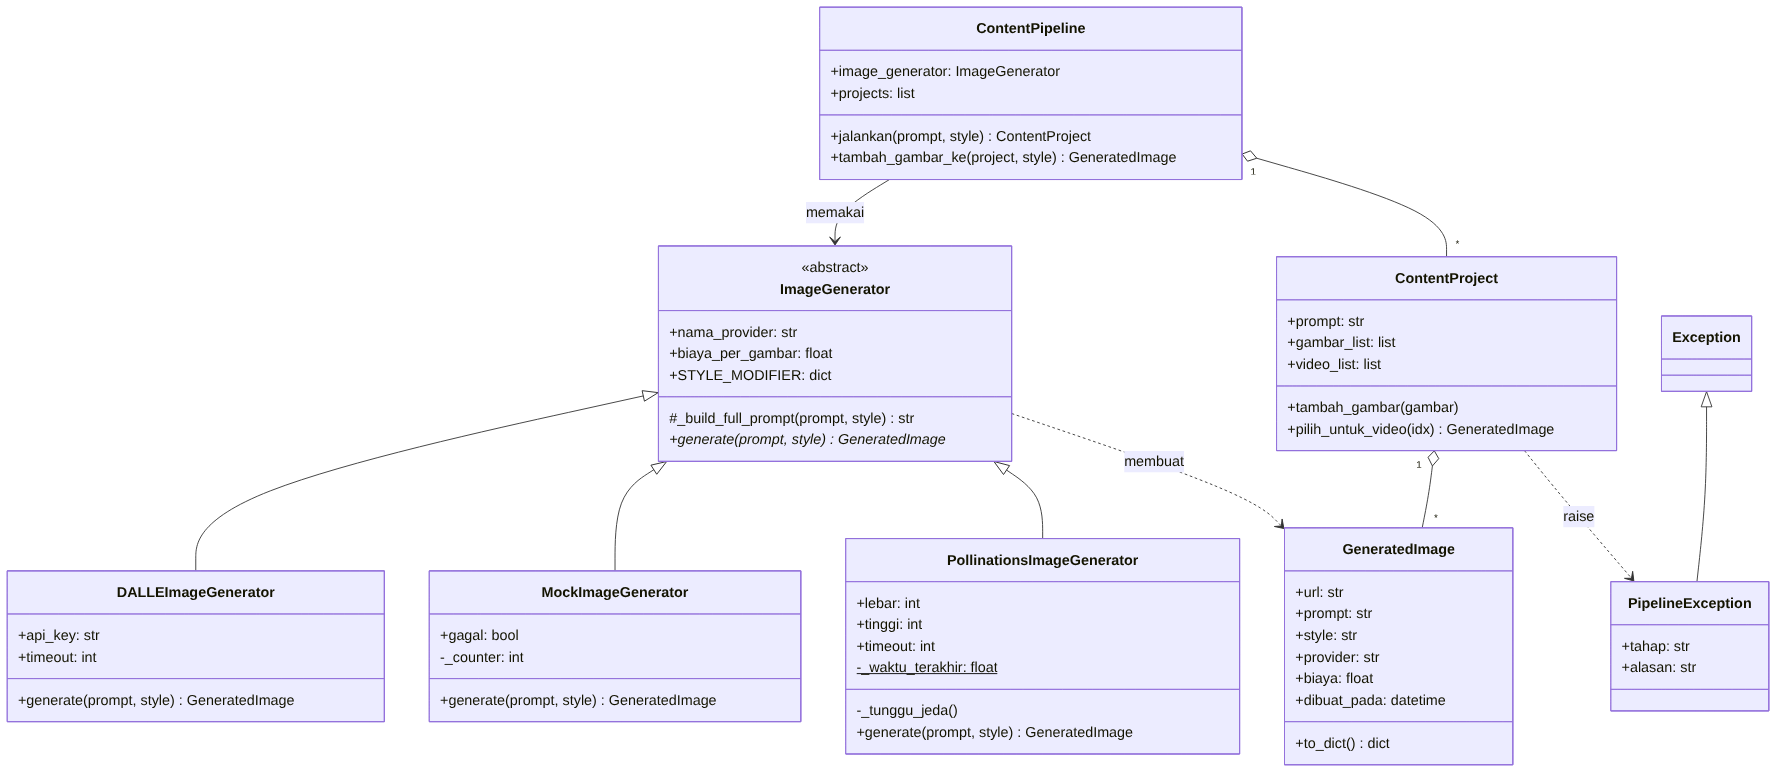
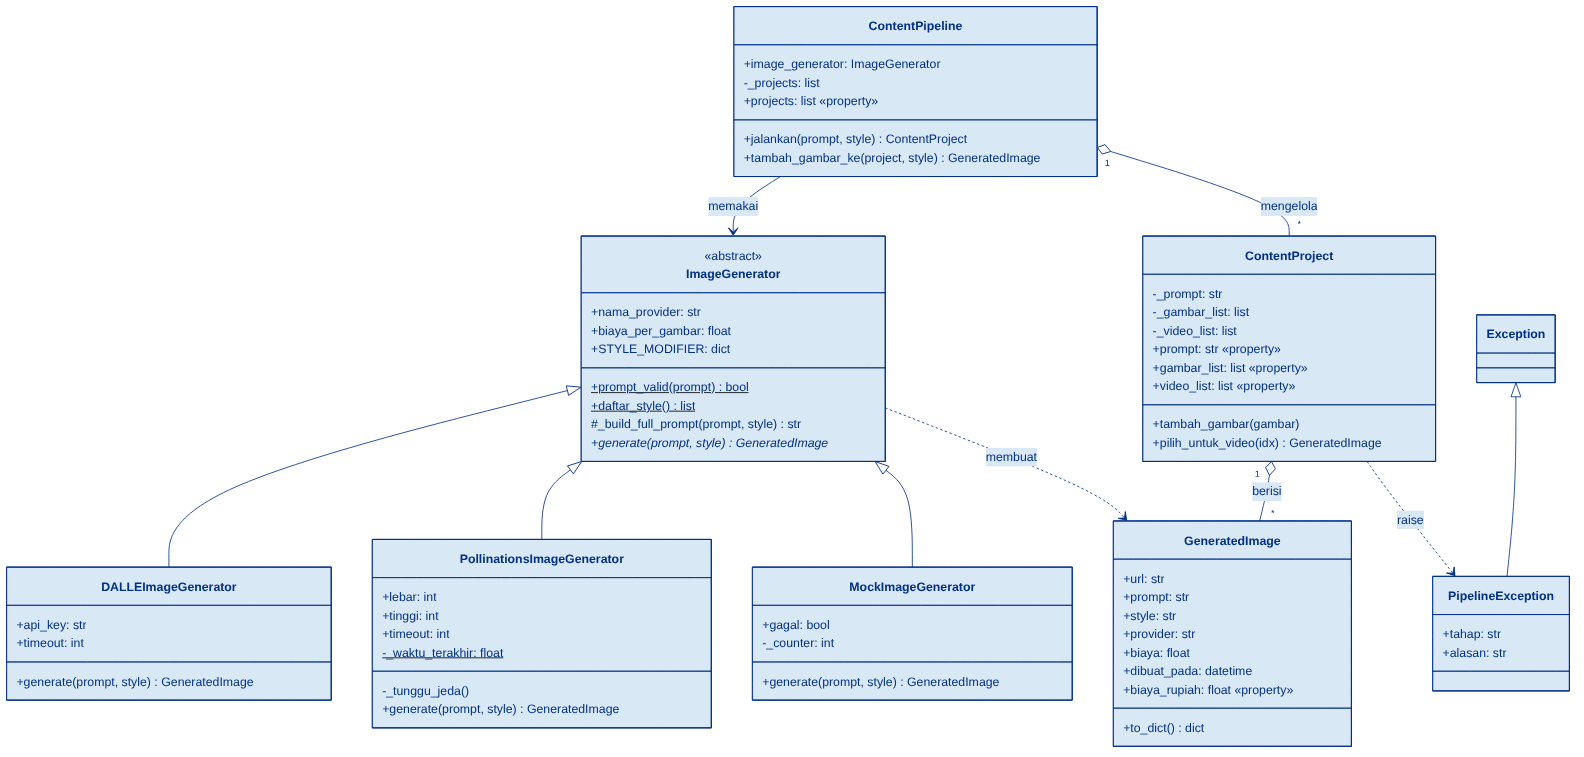
Update versi terbaru: property, classmethod, staticmethod, contoh_bab6

diff --git a/contoh_bab6.py b/contoh_bab6.py
@@ -1,0 +1,61 @@
+# =============================================================
+# contoh_bab6.py  -  Versi LENGKAP potongan kode BAB VI laporan
+# Jalankan dari folder project:  python contoh_bab6.py
+# (potongan di laporan tidak bisa jalan sendiri karena tidak
+#  ada baris import; file ini sudah lengkap dengan import-nya)
+# =============================================================
+
+# --- import: "mengambil" class dari file lain di project ---
+from content_pipeline import ContentPipeline           # file content_pipeline.py
+from generators.base import ImageGenerator             # file generators/base.py
+from generators.mock import MockImageGenerator         # file generators/mock.py
+from generators.dalle import DALLEImageGenerator       # file generators/dalle.py
+from models.content_project import ContentProject      # file models/content_project.py
+from exceptions import PipelineException               # file exceptions.py
+
+
+print("===== 6.1 & 6.2  CLASS dan OBJECT =====")
+pipeline = ContentPipeline(MockImageGenerator())       # buat objek pipeline, provider = Mock (offline)
+project1 = pipeline.jalankan("kucing astronot", "anime")     # objek ContentProject ke-1
+project2 = pipeline.jalankan("pantai sore", "cinematic")     # objek ContentProject ke-2
+print(project1.prompt, "|", project1.gambar_list[0].style)  # state objek 1
+print(project2.prompt, "|", project2.gambar_list[0].style)  # state objek 2 (beda)
+print("Jumlah project:", len(pipeline.projects))            # 2 objek tersimpan di pipeline
+
+
+print("\n===== 6.3  PROPERTY (getter, setter, validasi) =====")
+print("Prompt lama :", project1.prompt)            # getter -> membaca _prompt
+project1.prompt = "kucing astronot di bulan"       # setter -> lolos validasi
+print("Prompt baru :", project1.prompt)
+try:
+    project1.prompt = "   "                        # setter -> prompt kosong ditolak
+except PipelineException as e:
+    print("Ditolak     :", e)
+gambar = project1.gambar_list[0]
+print("Biaya USD   :", gambar.biaya)
+print("Biaya Rupiah:", gambar.biaya_rupiah)        # property yang dihitung otomatis
+
+
+print("\n===== 6.4  METHOD (instance, class, static) =====")
+print("Static method :", ImageGenerator.prompt_valid("kota futuristik"))  # True
+print("Static method :", ImageGenerator.prompt_valid(""))                 # False
+print("Class method  :", ImageGenerator.daftar_style())                  # daftar style
+
+
+print("\n===== 6.5  INHERITANCE =====")
+mock = MockImageGenerator()
+print("Mock turunan ImageGenerator? ", isinstance(mock, ImageGenerator))  # True
+print("Method warisan _build_full_prompt():")
+print("  ", mock._build_full_prompt("gunung bersalju", "realistis"))
+
+
+print("\n===== 6.6  POLYMORPHISM =====")
+# method yang sama (generate) dipanggil, hasilnya beda tergantung objeknya
+for generator in [MockImageGenerator(), DALLEImageGenerator()]:
+    try:
+        hasil = generator.generate("gunung bersalju", "realistis")
+        print(generator.nama_provider, "->", hasil.url)
+    except PipelineException as e:
+        print(generator.nama_provider, "->", e)
+# (Pollinations tidak dimasukkan di sini supaya tidak perlu internet & menunggu 15 detik;
+#  coba lewat menu 2 di main.py)

diff --git a/models/content_project.py b/models/content_project.py
@@ -6,20 +6,40 @@ from exceptions import PipelineException
 
 class ContentProject:
     def __init__(self, prompt):
-        self.prompt = prompt
-        self.gambar_list = []
-        self.video_list = []
+        self.prompt = prompt          # lewat setter -> divalidasi
+        self._gambar_list = []        # private, dibaca lewat property
+        self._video_list = []
+
+    # PROPERTY dengan getter + setter (setter memvalidasi isi prompt)
+    @property
+    def prompt(self):
+        return self._prompt
+
+    @prompt.setter
+    def prompt(self, nilai):
+        if not isinstance(nilai, str) or not nilai.strip():
+            raise PipelineException("PROJECT", "Prompt project tidak boleh kosong")
+        self._prompt = nilai.strip()
+
+    # PROPERTY read-only: list hanya bisa diubah lewat method tambah_gambar()
+    @property
+    def gambar_list(self):
+        return list(self._gambar_list)
+
+    @property
+    def video_list(self):
+        return list(self._video_list)
 
     def tambah_gambar(self, gambar):
-        self.gambar_list.append(gambar)
+        self._gambar_list.append(gambar)
 
     # Fitur 8: memilih gambar yang nanti akan dijadikan video
     def pilih_untuk_video(self, idx):
-        if not self.gambar_list:
+        if not self._gambar_list:
             raise PipelineException("PILIH_GAMBAR", "Project belum punya gambar")
-        if not isinstance(idx, int) or idx < 0 or idx >= len(self.gambar_list):
+        if not isinstance(idx, int) or idx < 0 or idx >= len(self._gambar_list):
             raise PipelineException(
                 "PILIH_GAMBAR",
-                f"Indeks {idx} tidak valid, pilih 0 sampai {len(self.gambar_list) - 1}",
+                f"Indeks {idx} tidak valid, pilih 0 sampai {len(self._gambar_list) - 1}",
             )
-        return self.gambar_list[idx]
+        return self._gambar_list[idx]

diff --git a/content_pipeline.py b/content_pipeline.py
@@ -1,21 +1,27 @@
 # CONTENT PIPELINE (Fitur 9)
 # Pengatur alur pembuatan konten. Di tahap UTS baru Tahap 1: teks -> gambar.
-# Pipeline tidak peduli generatornya DALL-E atau Mock, cukup memanggil
-# generate() (POLYMORPHISM).
+# Pipeline tidak peduli generatornya DALL-E, Pollinations, atau Mock, cukup
+# memanggil generate() (POLYMORPHISM).
 from models.content_project import ContentProject
 
 
 class ContentPipeline:
     def __init__(self, image_generator):
         self.image_generator = image_generator
-        self.projects = []
+        self._projects = []
+
+    # PROPERTY read-only: daftar project tidak bisa ditimpa dari luar
+    @property
+    def projects(self):
+        return list(self._projects)
 
     # Fitur 9: Tahap 1, generate gambar dari prompt
     def jalankan(self, prompt, style="realistis"):
-        project = ContentProject(prompt)
+        # Generate dulu: jika gagal, project tidak ikut dibuat/disimpan
         gambar = self.image_generator.generate(prompt, style)
+        project = ContentProject(prompt)
         project.tambah_gambar(gambar)
-        self.projects.append(project)
+        self._projects.append(project)
         return project
 
     # Menambah gambar baru (style lain) ke project yang sudah ada

diff --git a/main.py b/main.py
@@ -8,6 +8,7 @@ import webbrowser
 from config import format_biaya
 from content_pipeline import ContentPipeline
 from exceptions import PipelineException
+from generators.base import ImageGenerator
 from generators.dalle import DALLEImageGenerator
 from generators.mock import MockImageGenerator
 from generators.pollinations import PollinationsImageGenerator
@@ -119,11 +120,11 @@ def menu():
                 print(f"Provider diganti ke {nama}")
             elif pilihan == "2":
                 prompt = input("Prompt: ")
-                style = input("Style (realistis/anime/kartun/cinematic): ").strip()
+                style = input(f"Style ({'/'.join(ImageGenerator.daftar_style())}): ").strip()
                 tampilkan_project(pipeline.jalankan(prompt, style))
             elif pilihan == "3":
                 project = project_terakhir(pipeline)
-                style = input("Style (realistis/anime/kartun/cinematic): ").strip()
+                style = input(f"Style ({'/'.join(ImageGenerator.daftar_style())}): ").strip()
                 pipeline.tambah_gambar_ke(project, style)
                 tampilkan_project(project)
             elif pilihan == "4":

diff --git a/generators/base.py b/generators/base.py
@@ -18,12 +18,22 @@ class ImageGenerator(ABC):
         "cinematic": "cinematic shot, dramatic lighting, film grain",
     }
 
+    # STATIC METHOD: fungsi bantu yang tidak butuh self maupun cls
+    @staticmethod
+    def prompt_valid(prompt):
+        return isinstance(prompt, str) and prompt.strip() != ""
+
+    # CLASS METHOD: memakai cls untuk membaca atribut milik kelas
+    @classmethod
+    def daftar_style(cls):
+        return list(cls.STYLE_MODIFIER)
+
     # Fitur 5: menggabungkan prompt + style modifier
     def _build_full_prompt(self, prompt, style):
-        if not isinstance(prompt, str) or not prompt.strip():
+        if not self.prompt_valid(prompt):
             raise PipelineException("IMAGE_GEN", "Prompt tidak boleh kosong")
         if style not in self.STYLE_MODIFIER:
-            daftar = ", ".join(self.STYLE_MODIFIER)
+            daftar = ", ".join(self.daftar_style())
             raise PipelineException("IMAGE_GEN", f"Style '{style}' tidak dikenal. Pilihan: {daftar}")
         return f"{prompt.strip()}, {self.STYLE_MODIFIER[style]}"
 

diff --git a/generators/pollinations.py b/generators/pollinations.py
@@ -10,6 +10,7 @@ import urllib.request
 
 from config import FOLDER_OUTPUT, HARGA_POLLINATIONS_PER_GAMBAR, JEDA_POLLINATIONS
 from exceptions import PipelineException
+from ssl_helper import buat_ssl_context
 from generators.base import ImageGenerator
 from models.generated_image import GeneratedImage
 
@@ -50,7 +51,7 @@ class PollinationsImageGenerator(ImageGenerator):
 
         try:
             PollinationsImageGenerator._waktu_terakhir = time.time()
-            with urllib.request.urlopen(request, timeout=self.timeout) as response:
+            with urllib.request.urlopen(request, timeout=self.timeout, context=buat_ssl_context()) as response:
                 jenis = response.headers.get("Content-Type", "")
                 isi_gambar = response.read()
         except urllib.error.HTTPError as e:

diff --git a/generators/dalle.py b/generators/dalle.py
@@ -8,6 +8,7 @@ import urllib.request
 
 from config import HARGA_DALLE_PER_GAMBAR
 from exceptions import PipelineException
+from ssl_helper import buat_ssl_context
 from generators.base import ImageGenerator
 from models.generated_image import GeneratedImage
 
@@ -43,7 +44,7 @@ class DALLEImageGenerator(ImageGenerator):
         )
 
         try:
-            with urllib.request.urlopen(request, timeout=self.timeout) as response:
+            with urllib.request.urlopen(request, timeout=self.timeout, context=buat_ssl_context()) as response:
                 data = json.loads(response.read().decode("utf-8"))
             url = data["data"][0]["url"]
         except urllib.error.HTTPError as e:

diff --git a/models/generated_image.py b/models/generated_image.py
@@ -3,6 +3,8 @@
 from dataclasses import dataclass, field
 from datetime import datetime
 
+from config import KURS_USD_KE_IDR
+
 
 @dataclass
 class GeneratedImage:
@@ -12,6 +14,11 @@ class GeneratedImage:
     provider: str
     biaya: float
     dibuat_pada: datetime = field(default_factory=datetime.now)
+
+    # PROPERTY (read-only): biaya dalam Rupiah dihitung dari biaya USD
+    @property
+    def biaya_rupiah(self):
+        return self.biaya * KURS_USD_KE_IDR
 
     def to_dict(self):
         """Mengubah objek menjadi dictionary (dipakai saat ekspor ke JSON)."""

diff --git a/ssl_helper.py b/ssl_helper.py
@@ -1,0 +1,13 @@
+# SSL HELPER
+# Di macOS (Python dari python.org) sertifikat SSL kadang belum terpasang,
+# sehingga muncul error CERTIFICATE_VERIFY_FAILED. Jika library certifi
+# terpasang, sertifikat dari certifi dipakai. Verifikasi SSL TETAP aktif.
+import ssl
+
+
+def buat_ssl_context():
+    try:
+        import certifi
+        return ssl.create_default_context(cafile=certifi.where())
+    except ImportError:
+        return ssl.create_default_context()

diff --git a/README.md b/README.md
@@ -25,6 +25,10 @@ Tidak perlu install library tambahan (hanya Python standar).
 3. Menu **2** → isi prompt dan style
 4. File gambar tersimpan di folder `output/`, buka lewat menu **6**
 
+**Jika muncul error `CERTIFICATE_VERIFY_FAILED` (macOS):** jalankan sekali
+`open "/Applications/Python 3.13/Install Certificates.command"` (sesuaikan versi Python),
+atau `python3 -m pip install --upgrade certifi`. Program otomatis memakai certifi jika terpasang.
+
 Batasan layanan gratis Pollinations: 1 request per 15 detik (program menunggu otomatis),
 gambar bisa memakan waktu 10–60 detik, dan kadang ada watermark.
 
@@ -45,6 +49,7 @@ ai-content-studio-uts/
 ├── config.py                # harga & kurs
 ├── exceptions.py            # PipelineException
 ├── content_pipeline.py      # ContentPipeline (Tahap 1)
+├── ssl_helper.py            # sertifikat SSL (fix error macOS)
 ├── generators/
 │   ├── base.py              # ImageGenerator (Abstract Base Class)
 │   ├── dalle.py             # DALLEImageGenerator
